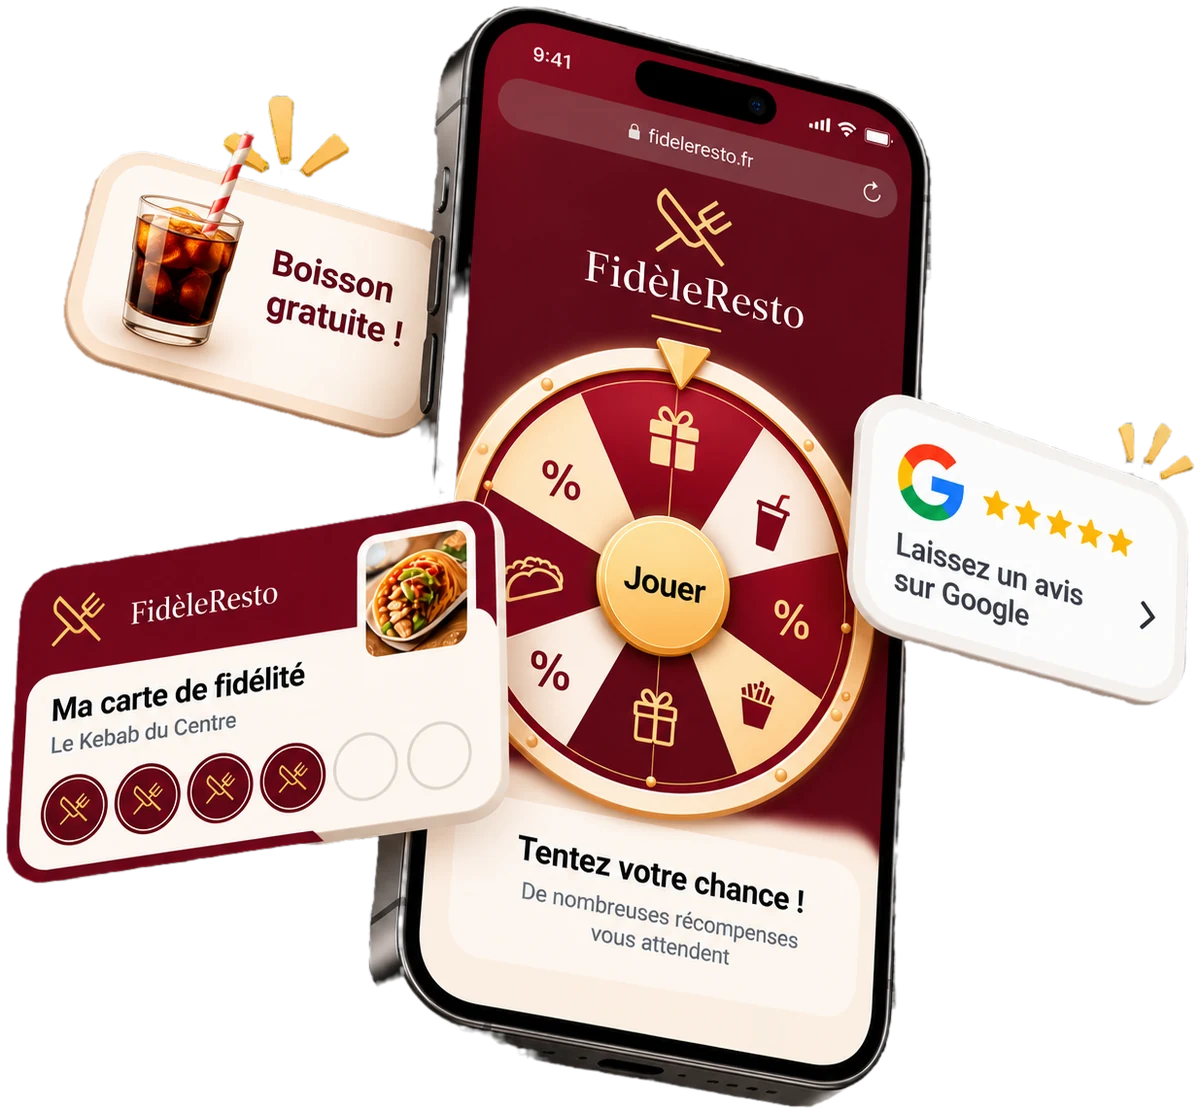
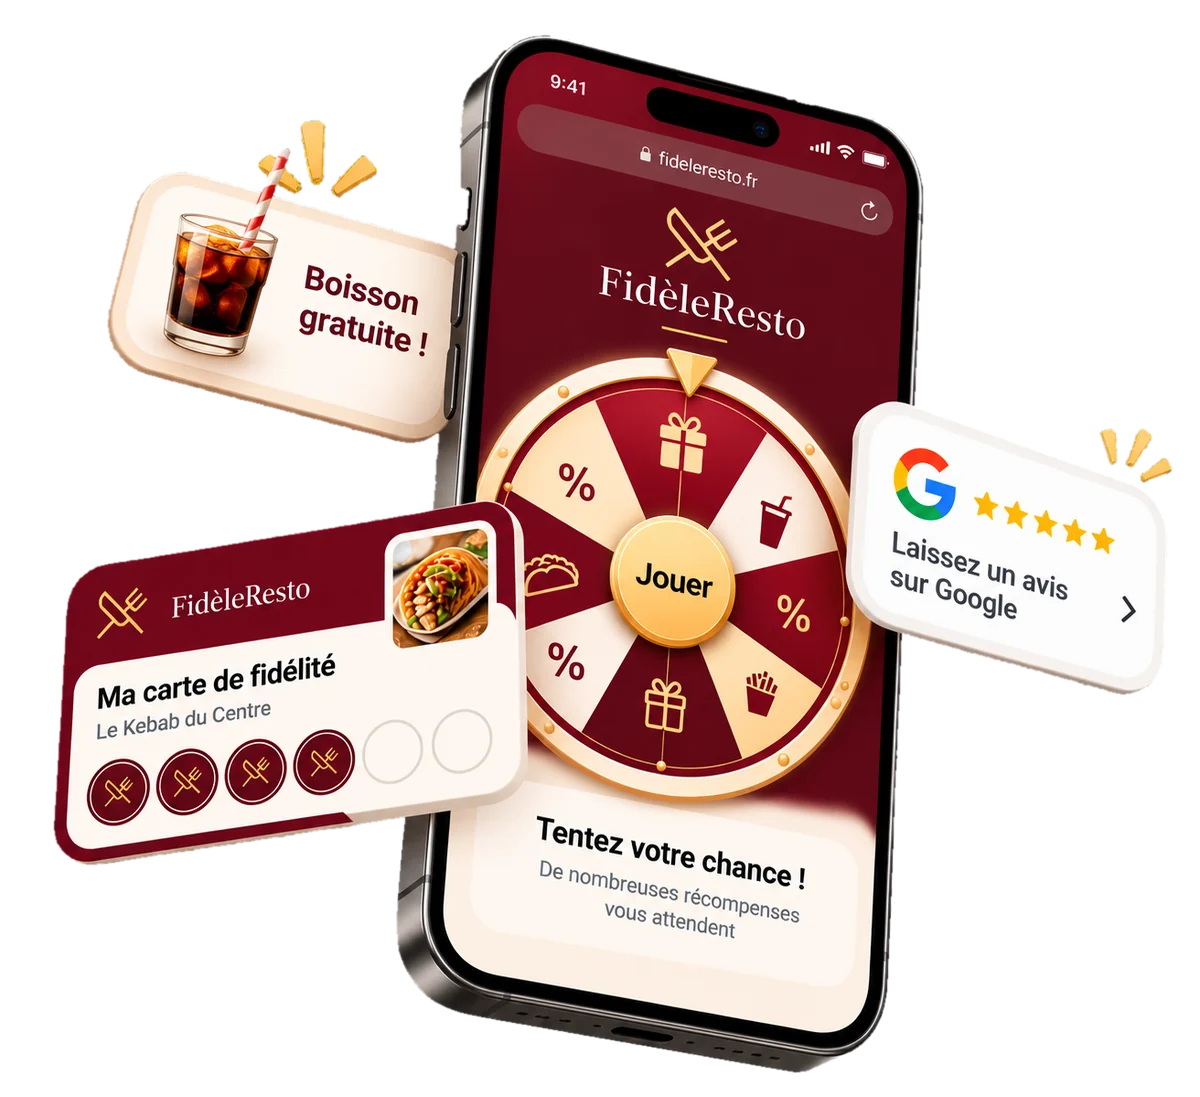
Onglet Scanner dedie (accessible aux deux plans) : validation des recompenses de la roue pour l'Essentiel, passages carte fidelite reserves au Complet. Nouveau detourage du hero (faux damier retire, liseré du telephone restaure), WebP 1200x1097
Claude-Session: https://claude.ai/code/session_01TWBaS271wyHBBYFiVrWyGi

Changed region(s): [[0.0, 0.0, 0.9558, 1.0], [0.925, 0.3719, 1.0, 0.4339]]

diff --git a/app/dashboard/page.tsx b/app/dashboard/page.tsx
@@ -8,7 +8,7 @@ export const dynamic = 'force-dynamic'
 import { useEffect, useState, useRef, Suspense } from "react"
 import { useRouter, useSearchParams } from "next/navigation"
 import { supabase } from "@/lib/supabase"
-import { QrCode, Users, Star, Gift, LogOut, LayoutDashboard, Settings, Sliders, UtensilsCrossed, Download, ArrowRight, CreditCard, Check, BookOpen, Award, Trash2, Search, Image as ImageIcon, FileText, Mail, ShieldCheck, Menu, X, Inbox, ArrowLeft, Lock } from "lucide-react"
+import { QrCode, Users, Star, Gift, LogOut, LayoutDashboard, Settings, Sliders, UtensilsCrossed, Download, ArrowRight, CreditCard, Check, BookOpen, Award, Trash2, Search, Image as ImageIcon, FileText, Mail, ShieldCheck, Menu, X, Inbox, ArrowLeft, Lock, ScanLine } from "lucide-react"
 import { BarChart, Bar, XAxis, YAxis, Tooltip, ResponsiveContainer, PieChart, Pie, Cell } from "recharts"
 import { MODELES_FLYER, ModeleFlyer } from "@/lib/flyerTemplates"
 import { plans } from "@/lib/pricing"
@@ -253,7 +253,7 @@ function DashboardContent() {
       })
     }
 
-    if (activeSection !== "fidelite" && streamRef.current) {
+    if (activeSection !== "scanner" && streamRef.current) {
       arreterScan()
     }
   }, [activeSection, user, restaurant])
@@ -692,6 +692,12 @@ function DashboardContent() {
           ctx.drawImage(video, 0, 0, canvas.width, canvas.height)
           const imageData = ctx.getImageData(0, 0, canvas.width, canvas.height)
           const code = jsQR(imageData.data, imageData.width, imageData.height)
+          if (code && code.data.startsWith("fideleresto:client:") && !estComplet) {
+            arreterScan()
+            setClientTrouve(null)
+            setRecompenseScanResult({ success: false, error: "Ce QR est une carte de fidélité : la carte de fidélité est incluse dans le plan Complet." })
+            return
+          }
           if (code && code.data.startsWith("fideleresto:client:")) {
             const clientId = code.data.replace("fideleresto:client:", "")
             arreterScan()
@@ -930,6 +936,7 @@ function DashboardContent() {
         { id: "accueil", label: "Tableau de bord", icon: LayoutDashboard },
         { id: "qrcode", label: "Mon QR code", icon: QrCode },
         { id: "flyer", label: "Mon flyer", icon: FileText },
+        { id: "scanner", label: "Scanner", icon: ScanLine },
         { id: "clients", label: "Mes clients", icon: Users },
         { id: "roue", label: "Ma roue", icon: Sliders },
         { id: "menu", label: "Menu digital", icon: BookOpen, verrou: !estComplet },
@@ -1667,60 +1674,20 @@ function DashboardContent() {
           </div>
         )}
 
-        {activeSection === "fidelite" && estComplet && (
+        {activeSection === "scanner" && (
           <div>
             <div className="mb-8">
-              <h1 className="text-2xl font-display font-semibold text-ink">Carte fidélité</h1>
-              <p className="text-ink/55 mt-1">Réglez votre carte et validez les passages de vos clients</p>
+              <h1 className="text-2xl font-display font-semibold text-ink">Scanner</h1>
+              <p className="text-ink/55 mt-1">
+                {estComplet
+                  ? "Validez les récompenses de la roue et les passages sur la carte de fidélité"
+                  : "Validez les récompenses gagnées à la roue par vos clients"}
+              </p>
             </div>
-
-            <div className="grid gap-6 lg:grid-cols-2 max-w-4xl">
-              {/* Réglages */}
+            <div className="max-w-xl">
+              {/* Scanner : récompenses de la roue (tous plans) + passages carte fidélité (Complet) */}
               <div className="bg-card rounded-xl p-6 border border-wine/10 shadow-sm">
-                <p className="text-sm font-medium text-ink mb-4">Réglages de la carte</p>
-
-                <label className="block text-sm text-ink/70 mb-1">
-                  Nombre de tampons requis : <span className="font-semibold text-wine">{tamponsRequis}</span>
-                </label>
-                <input
-                  type="range"
-                  min={6}
-                  max={15}
-                  value={tamponsRequis}
-                  onChange={e => setTamponsRequis(parseInt(e.target.value))}
-                  className="w-full accent-wine mb-4"
-                />
-
-                <label className="block text-sm text-ink/70 mb-1">Montant minimum pour valider un tampon (€)</label>
-                <input
-                  type="number"
-                  step="0.5"
-                  min={0}
-                  value={montantMin}
-                  onChange={e => setMontantMin(parseFloat(e.target.value))}
-                  className="w-full border border-wine/15 rounded-lg px-3 py-2 text-sm mb-4 focus:outline-none focus:ring-2 focus:ring-gold"
-                />
-
-                <label className="block text-sm text-ink/70 mb-1">Récompense offerte</label>
-                <input
-                  type="text"
-                  value={recompenseFidelite}
-                  onChange={e => setRecompenseFidelite(e.target.value)}
-                  className="w-full border border-wine/15 rounded-lg px-3 py-2 text-sm mb-4 focus:outline-none focus:ring-2 focus:ring-gold"
-                />
-
-                <button
-                  onClick={saveFideliteConfig}
-                  disabled={savingFidelite}
-                  className="w-full bg-wine hover:bg-wine-dark disabled:opacity-60 text-gold-light font-medium py-2.5 rounded-lg text-sm"
-                >
-                  {savingFidelite ? "Sauvegarde..." : "Sauvegarder les réglages"}
-                </button>
-              </div>
-
-              {/* Validation d'un passage */}
-              <div className="bg-card rounded-xl p-6 border border-wine/10 shadow-sm">
-                <p className="text-sm font-medium text-ink mb-4">Valider un passage client</p>
+                <p className="text-sm font-medium text-ink mb-4">{estComplet ? "Scanner une carte ou une récompense" : "Scanner une récompense"}</p>
 
                 {scanning ? (
                   <div className="mb-4">
@@ -1742,10 +1709,11 @@ function DashboardContent() {
                     className="w-full flex items-center justify-center gap-2 bg-wine hover:bg-wine-dark text-gold-light font-medium py-3 rounded-lg text-sm mb-4"
                   >
                     <QrCode className="size-4" />
-                    Scanner (carte fidélité ou récompense roue)
+                    {estComplet ? "Scanner (carte fidélité ou récompense roue)" : "Scanner le QR de la récompense"}
                   </button>
                 )}
 
+                {estComplet && (
                 <details className="mb-2">
                   <summary className="text-xs text-ink/50 cursor-pointer hover:text-ink/70">
                     Ou rechercher par email
@@ -1767,6 +1735,7 @@ function DashboardContent() {
                     </button>
                   </div>
                 </details>
+                )}
 
                 {rechercheError && <p className="text-sm text-wine mt-3 mb-2">{rechercheError}</p>}
 
@@ -1859,6 +1828,73 @@ function DashboardContent() {
                     </div>
                   )}
                 </details>
+              </div>
+            </div>
+          </div>
+        )}
+
+        {activeSection === "fidelite" && estComplet && (
+          <div>
+            <div className="mb-8">
+              <h1 className="text-2xl font-display font-semibold text-ink">Carte fidélité</h1>
+              <p className="text-ink/55 mt-1">Réglez votre carte et validez les passages de vos clients</p>
+            </div>
+
+            <div className="grid gap-6 lg:grid-cols-2 max-w-4xl">
+              {/* Réglages */}
+              <div className="bg-card rounded-xl p-6 border border-wine/10 shadow-sm">
+                <p className="text-sm font-medium text-ink mb-4">Réglages de la carte</p>
+
+                <label className="block text-sm text-ink/70 mb-1">
+                  Nombre de tampons requis : <span className="font-semibold text-wine">{tamponsRequis}</span>
+                </label>
+                <input
+                  type="range"
+                  min={6}
+                  max={15}
+                  value={tamponsRequis}
+                  onChange={e => setTamponsRequis(parseInt(e.target.value))}
+                  className="w-full accent-wine mb-4"
+                />
+
+                <label className="block text-sm text-ink/70 mb-1">Montant minimum pour valider un tampon (€)</label>
+                <input
+                  type="number"
+                  step="0.5"
+                  min={0}
+                  value={montantMin}
+                  onChange={e => setMontantMin(parseFloat(e.target.value))}
+                  className="w-full border border-wine/15 rounded-lg px-3 py-2 text-sm mb-4 focus:outline-none focus:ring-2 focus:ring-gold"
+                />
+
+                <label className="block text-sm text-ink/70 mb-1">Récompense offerte</label>
+                <input
+                  type="text"
+                  value={recompenseFidelite}
+                  onChange={e => setRecompenseFidelite(e.target.value)}
+                  className="w-full border border-wine/15 rounded-lg px-3 py-2 text-sm mb-4 focus:outline-none focus:ring-2 focus:ring-gold"
+                />
+
+                <button
+                  onClick={saveFideliteConfig}
+                  disabled={savingFidelite}
+                  className="w-full bg-wine hover:bg-wine-dark disabled:opacity-60 text-gold-light font-medium py-2.5 rounded-lg text-sm"
+                >
+                  {savingFidelite ? "Sauvegarde..." : "Sauvegarder les réglages"}
+                </button>
+              </div>
+
+              {/* La validation des passages se fait dans l'onglet Scanner (commun aux deux plans) */}
+              <div className="bg-card rounded-xl p-6 border border-wine/10 shadow-sm">
+                <p className="text-sm font-medium text-ink mb-2">Valider un passage client</p>
+                <p className="text-sm text-ink/60 mb-4">Scannez la carte du client ou retrouvez-le par email depuis l&apos;onglet Scanner.</p>
+                <button
+                  onClick={() => setActiveSection("scanner")}
+                  className="w-full flex items-center justify-center gap-2 bg-wine hover:bg-wine-dark text-gold-light font-medium py-3 rounded-lg text-sm"
+                >
+                  <ScanLine className="size-4" />
+                  Ouvrir le scanner
+                </button>
               </div>
             </div>
 

diff --git a/components/hero-section.tsx b/components/hero-section.tsx
@@ -53,7 +53,7 @@ export function HeroSection() {
               src="/assets/hero-mockup.webp"
               alt="L'application FidèleResto sur un smartphone : la roue de la chance à tourner, un lot « Boisson gratuite ! », la carte de fidélité du restaurant et l'invitation à laisser un avis Google"
               width={1200}
-              height={1114}
+              height={1097}
               priority
               sizes="(min-width: 1024px) 560px, 90vw"
               className="h-auto w-full drop-shadow-[0_28px_34px_rgba(66,16,28,0.22)]"
